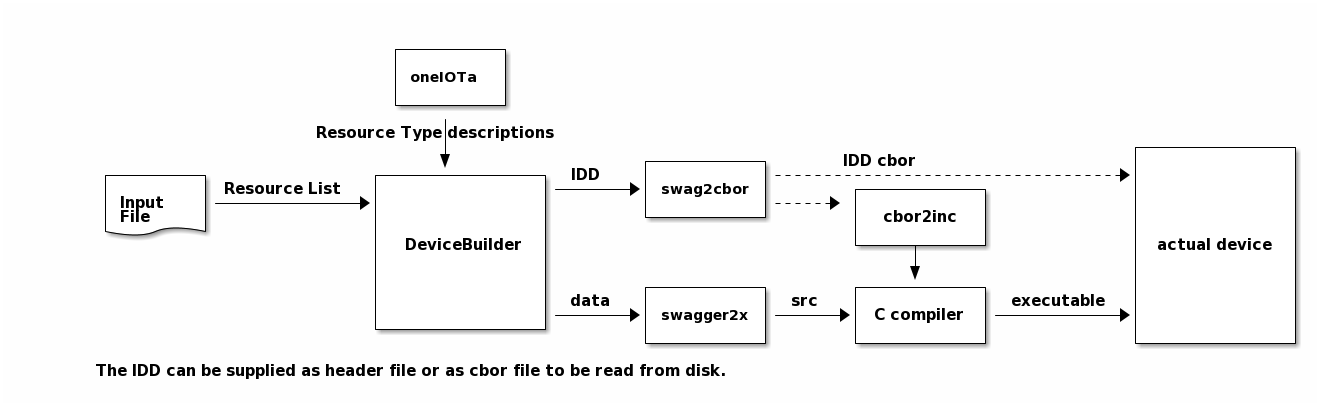
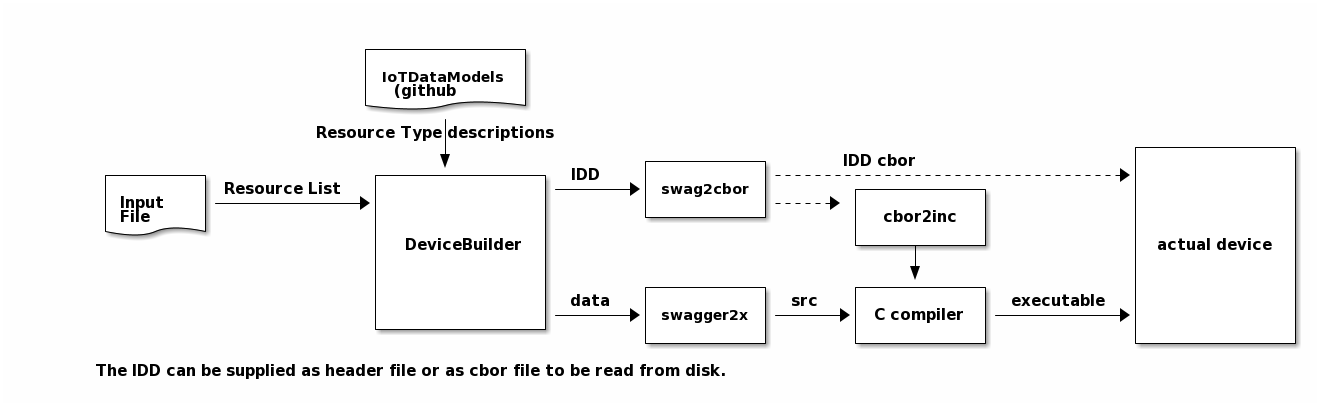
update

Changed region(s): [[0.2795, 0.1182, 0.4038, 0.2956]]

diff --git a/Readme.md b/Readme.md
@@ -2,12 +2,12 @@
 
 ## Description
 
-This script has various functions to work with OCF swagger type definitions.
+This Tool has various functions to work with OCF swagger type definitions.
 The base function of DeviceBuilder is to:
 
 - create a single Swagger2.0 file from OCF swagger type definitions (oneIOTa, Core,...)
 The single swagger definition file of a full device (application level resources) can be used for:
-  - code generation (as input of swagger2x)
+  - code generation (as input of [swagger2x](/swagger2x))
   - generation of the introspection file.
 
 This tool is part of [the tool chain](#tool-chain).
@@ -27,11 +27,13 @@ This tool is part of [the tool chain](#tool-chain).
   
 ## Installation
 
-Installation of the tool is making a clone of the repository and
+Installation of DeviceBuilder is making a clone of the repository and
 use the tool relative of where the repository is located on your system.
 To install the dependencies:
 
 run ```pip3 install -U -r requirements.txt``` to install the dependencies.
+
+The full installation of all tools and repos can be achieved via [setup](https://openconnectivity.github.io/IOTivity-Lite-setup/).
 
 ## Usage
 
@@ -57,10 +59,9 @@ Typical flow to create an OCF device using DeviceBuilder is:
 The tool chain script implements the following tool chain to generate code:
 ![ToolChain](https://openconnectivityfoundation.github.io/DeviceBuilder/data/toolchain.png)
 
+The generated code depends on the available code generation templates in [swagger2x](/swagger2x).
 
-The generated code depends on the available code generation templates in swagger2x.
-
-### Available scripts 
+### Available scripts
 
 Currently available DeviceBuilder scripts are:
 
